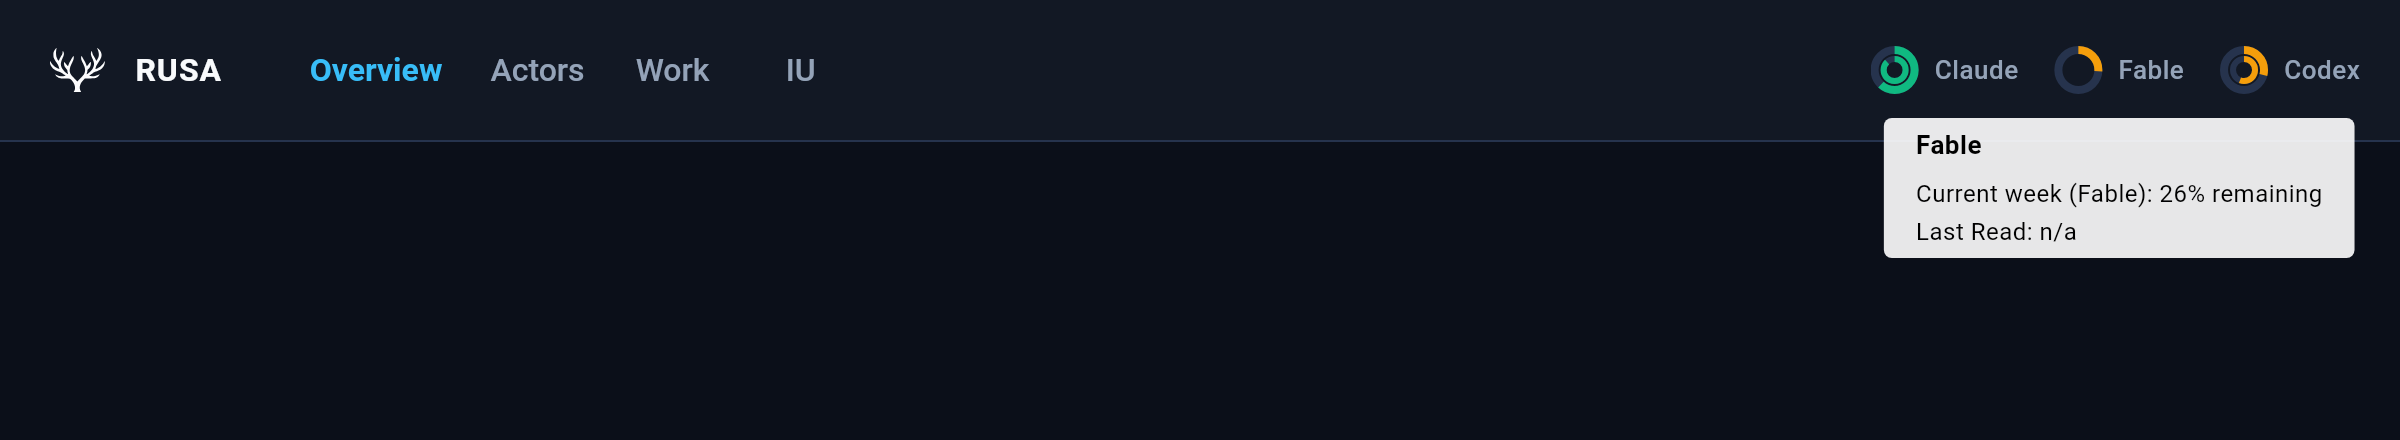
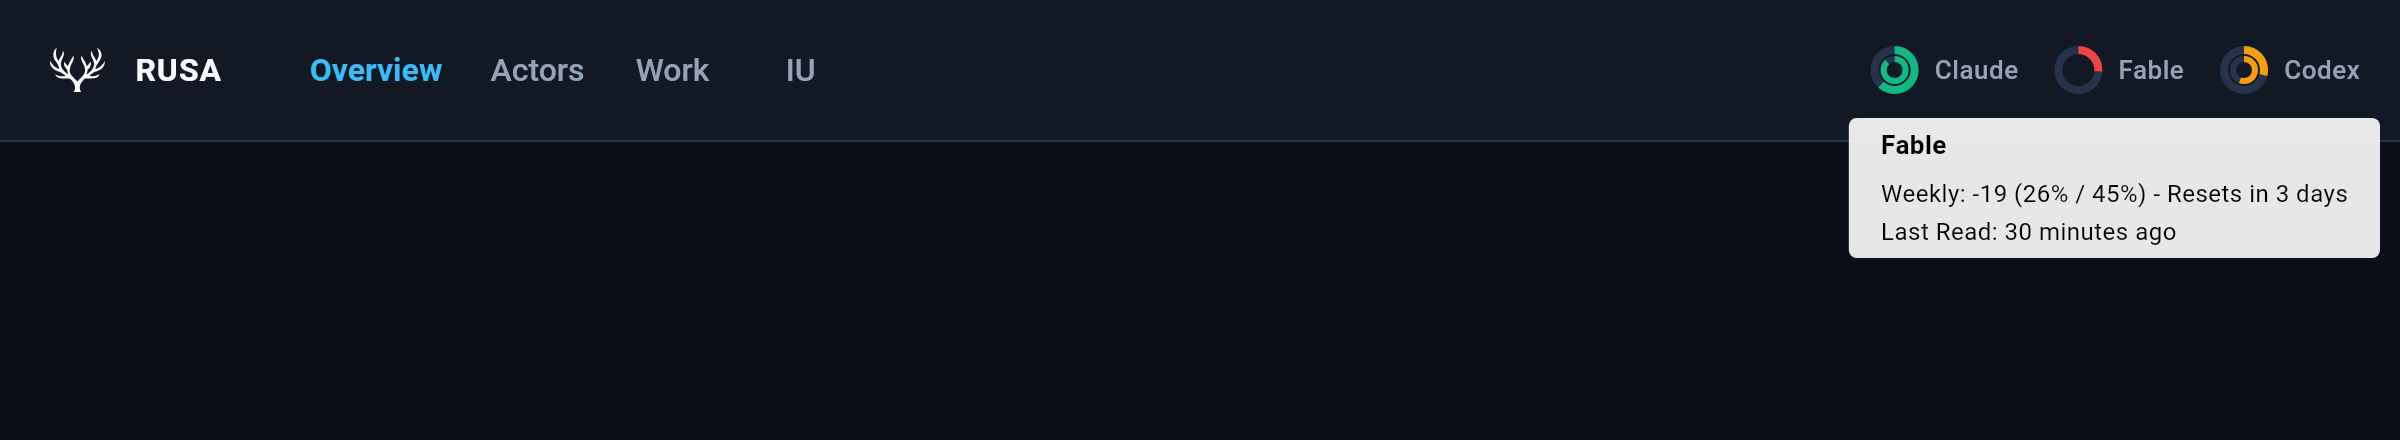
fix(dashboard): drop repeated quota tooltip rows; real Fable read time (#764)
Matt's review of #764 asked what the tooltip repeats and why Fable showed
"Last Read: n/a".

- The hottest-bucket line was its window row's headroom negated
  (Session: -1 is "1.0 points over pace"); dropped.
- The freshness lines restated Last Read; its staleness, fail-safe cap and
  manual mode now ride on the Last Read row, and a reset still awaiting its
  read stays on the window row.
- Window rows are named Weekly/Session: the heading already names the
  provider or model, so "Current week (Fable)" no longer repeats "Fable".
- The Fable capture's fixture left out the scrape and reset instants the
  server always sends for a model window; it now carries them, so the
  screenshot shows the real Last Read instead of n/a.

Changed region(s): [[0.75, 0.2659, 1.0, 0.5909], [0.8438, 0.1182, 0.875, 0.1477]]

diff --git a/packages/rusa/flutter_dashboard/lib/widgets/quota_tooltip.dart b/packages/rusa/flutter_dashboard/lib/widgets/quota_tooltip.dart
@@ -108,54 +108,28 @@ int? remainingMs(QuotaWindowDto window, DateTime now) {
   return reset.difference(now).inMilliseconds;
 }
 
-/// The control loop's own explanation of its pacing decision beyond the
-/// interval: freshness mode and state, expired-window recovery, the hottest
-/// bucket, and the configured-maximum cap. Carried over from the legacy text
-/// tooltip so a slow provider stays distinguishable from a busy mesh.
-List<String> quotaPacingDiagnostics(QuotaThrottleDto throttle) {
-  final lines = <String>[];
-  final f = throttle.freshness;
-  if (f != null) {
-    final modeLabel = f.mode == 'manual' ? 'manual' : 'scrape';
-    const hardStale = 'overdue (hard-stale, fail-safe cap applied)';
-    if (f.resetWaiting) {
-      lines.add(
-        'Freshness ($modeLabel): window reset; awaiting fresh reading (estimated)',
-      );
-      if (f.hardStale) lines.add('Freshness ($modeLabel): $hardStale');
-    } else if (f.hardStale) {
-      lines.add('Freshness ($modeLabel): $hardStale');
-    } else if (f.stale) {
-      lines.add('Freshness ($modeLabel): overdue (stale reading)');
-    } else {
-      lines.add('Freshness ($modeLabel): fresh');
-    }
-  }
-  if (throttle.expired) {
-    lines.add(
-      'Previous quota window expired; returning to the configured interval',
-    );
-  } else if (throttle.buckets.isNotEmpty) {
-    final hottest = throttle.buckets.reduce(
-      (a, b) => a.error >= b.error ? a : b,
-    );
-    lines.add(
-      'Hottest bucket ${hottest.key}: ${hottest.error.toStringAsFixed(1)} points over pace',
-    );
-  }
-  if (throttle.capped) {
-    lines.add('Limited to the configured maximum interval');
-  }
-  return lines;
-}
+/// The control loop's own explanation of its pacing decision that no other
+/// row carries: expired-window recovery and the configured-maximum cap.
+/// Carried over from the legacy text tooltip so a slow provider stays
+/// distinguishable from a busy mesh. The legacy freshness and hottest-bucket
+/// lines are not repeated (#764 review): Last Read carries the reading's age,
+/// staleness and mode, a window row carries a reset still awaiting its read,
+/// and a bucket's error is its window row's headroom negated.
+List<String> quotaPacingDiagnostics(QuotaThrottleDto throttle) => [
+  if (throttle.expired)
+    'Previous quota window expired; returning to the configured interval',
+  if (throttle.capped) 'Limited to the configured maximum interval',
+];
 
 /// A structured widget replacing the plain-text quota ring tooltip (#760).
 ///
 /// Displays:
 /// - Provider heading (e.g. "Claude")
-/// - One row per quota window: `$label: $margin ($quotaRemaining% / $timeRemaining%) - Resets in $relativeReset`
+/// - One row per quota window, named for its kind (`Weekly`, `Session`) since
+///   the heading already names the provider or model:
+///   `$label: $margin ($quotaRemaining% / $timeRemaining%) - Resets in $relativeReset`
 /// - Pacing row: `Pacing: every $interval` (omitted when [showThrottle] is false)
-/// - Last read row: `Last Read: $age`
+/// - Last read row: `Last Read: $age`, marked when stale or manually entered
 /// - Secondary pacing diagnostics ([quotaPacingDiagnostics]), when pacing is shown
 class QuotaTooltip extends StatelessWidget {
   const QuotaTooltip({
@@ -178,13 +152,13 @@ class QuotaTooltip extends StatelessWidget {
   List<String> _buildWindowRows(DateTime currentTime) {
     final rows = <String>[];
     for (final window in windows) {
-      final label = window.label.isNotEmpty
-          ? window.label
-          : (window.id == 'weekly'
-                ? 'Weekly'
-                : (window.id == 'session' || window.id == 'five_hour'
-                      ? 'Session'
-                      : window.id));
+      final label = switch (window.id) {
+        'weekly' => 'Weekly',
+        'session' => 'Session',
+        _ when window.label.isNotEmpty => window.label,
+        'five_hour' => 'Session',
+        _ => window.id,
+      };
 
       if (!window.isKnown || window.usedPercent == null) {
         rows.add('$label: n/a');
@@ -266,15 +240,16 @@ class QuotaTooltip extends StatelessWidget {
     final age = currentTime.difference(scraped);
     final ageText = formatLastReadAge(age);
     final freshness = throttle?.freshness;
+    final row = freshness?.mode == 'manual'
+        ? 'Last Read (manual): $ageText'
+        : 'Last Read: $ageText';
     if (freshness != null) {
       if (freshness.hardStale) {
-        return 'Last Read: $ageText [overdue: hard-stale]';
+        return '$row [overdue: hard-stale, fail-safe cap applied]';
       }
-      if (freshness.stale) {
-        return 'Last Read: $ageText [overdue: stale]';
-      }
+      if (freshness.stale) return '$row [overdue: stale]';
     }
-    return 'Last Read: $ageText';
+    return row;
   }
 
   /// Plain-text representation of this tooltip for screen readers and tests.

diff --git a/packages/rusa/flutter_dashboard/test/quota_tooltip_test.dart b/packages/rusa/flutter_dashboard/test/quota_tooltip_test.dart
@@ -131,7 +131,9 @@ void main() {
       );
 
       expect(find.text('Fable'), findsOneWidget);
-      expect(find.textContaining('Current week (Fable):'), findsOneWidget);
+      // The title already names the model; the row says which window.
+      expect(find.textContaining(RegExp(r'^Weekly: .*\(26% / ')), findsOneWidget);
+      expect(find.textContaining('(Fable)'), findsNothing);
       expect(find.textContaining('Resets in 5 days'), findsOneWidget);
       expect(find.textContaining('Last Read: 5 minutes ago'), findsOneWidget);
       // Pacing row must be omitted when showThrottle is false
@@ -332,7 +334,9 @@ void main() {
       now: now,
     );
 
-    test('names the hottest bucket driving pacing', () {
+    // Matt's #764 review: the hottest bucket's error is its window row's
+    // headroom negated (`Session: -1` is "1.0 points over pace").
+    test('leaves the hottest bucket to its window row', () {
       expect(
         quotaPacingDiagnostics(
           const QuotaThrottleDto(
@@ -355,11 +359,12 @@ void main() {
             ],
           ),
         ),
-        ['Hottest bucket claude:weekly: 20.0 points over pace'],
+        isEmpty,
       );
     });
 
-    test('explains scrape freshness mode when fresh', () {
+    // Freshness restates Last Read: its age, with the stale suffixes.
+    test('leaves a fresh reading to Last Read', () {
       expect(
         quotaPacingDiagnostics(
           const QuotaThrottleDto(
@@ -370,11 +375,11 @@ void main() {
             freshness: QuotaFreshnessDto(mode: 'scrape'),
           ),
         ),
-        ['Freshness (scrape): fresh'],
+        isEmpty,
       );
     });
 
-    test('explains a stale reading', () {
+    test('leaves a stale reading to Last Read', () {
       expect(
         quotaPacingDiagnostics(
           const QuotaThrottleDto(
@@ -385,12 +390,12 @@ void main() {
             freshness: QuotaFreshnessDto(mode: 'scrape', stale: true),
           ),
         ),
-        ['Freshness (scrape): overdue (stale reading)'],
+        isEmpty,
       );
     });
 
     test(
-      'explains reset-waiting, the hard-stale fail-safe cap and the configured maximum',
+      'explains the configured maximum, leaving reset-waiting to the window row',
       () {
         expect(
           quotaPacingDiagnostics(
@@ -408,11 +413,7 @@ void main() {
               ),
             ),
           ),
-          [
-            'Freshness (manual): window reset; awaiting fresh reading (estimated)',
-            'Freshness (manual): overdue (hard-stale, fail-safe cap applied)',
-            'Limited to the configured maximum interval',
-          ],
+          ['Limited to the configured maximum interval'],
         );
       },
     );
@@ -469,12 +470,7 @@ void main() {
       );
       await tester.pumpWidget(MaterialApp(home: Scaffold(body: tooltip)));
 
-      expect(
-        find.text(
-          'Freshness (manual): overdue (hard-stale, fail-safe cap applied)',
-        ),
-        findsOneWidget,
-      );
+      expect(find.textContaining('Freshness'), findsNothing);
       expect(
         find.text('Limited to the configured maximum interval'),
         findsOneWidget,
@@ -485,9 +481,8 @@ void main() {
         '\n'
         'Weekly: +58 (87% / 29%) - Resets in 2 days\n'
         'Pacing: every 10 hours\n'
-        'Last Read: 30 minutes ago [overdue: hard-stale]\n'
+        'Last Read (manual): 30 minutes ago [overdue: hard-stale, fail-safe cap applied]\n'
         '\n'
-        'Freshness (manual): overdue (hard-stale, fail-safe cap applied)\n'
         'Limited to the configured maximum interval',
       );
     });

diff --git a/packages/rusa/flutter_dashboard/test/screenshots_test.dart b/packages/rusa/flutter_dashboard/test/screenshots_test.dart
@@ -302,7 +302,8 @@ void main() {
             .ensureTooltipVisible();
         await tester.pump();
         await tester.pump(const Duration(milliseconds: 250));
-        expect(find.textContaining('Current week (Fable)'), findsOneWidget);
+        expect(find.textContaining('Weekly: '), findsOneWidget);
+        expect(find.textContaining('Last Read: 30 minutes ago'), findsOneWidget);
         await captureBoundary(key, '$_outDir/header_quota_fable_tooltip.png');
       });
     },
@@ -422,7 +423,8 @@ void main() {
         await tester.pump();
         await tester.pump(const Duration(milliseconds: 250));
         expect(find.textContaining('Weekly:'), findsOneWidget);
-        expect(find.text('Freshness (scrape): fresh'), findsOneWidget);
+        expect(find.textContaining('Freshness'), findsNothing);
+        expect(find.textContaining('Hottest bucket'), findsNothing);
         await captureBoundary(key, '$_outDir/header_quota_claude_tooltip.png');
       });
     },
@@ -597,9 +599,11 @@ QuotaSnapshotDto _seedQuota() => const QuotaSnapshotDto(
 );
 
 /// Claude with a Fable weekly allocation beside its provider-wide week (#752),
-/// plus Codex. Reset and scrape instants are null for a reproducible shot.
+/// plus Codex. The Fable window carries the provider's reset and scrape
+/// instants, as the server sends them, relative to the capture time.
 QuotaSnapshotDto _seedFableQuota() {
   final base = _seedQuota();
+  final now = DateTime.now().toUtc();
   final claude = base.providers.first;
   return QuotaSnapshotDto(
     generatedAt: base.generatedAt,
@@ -611,7 +615,8 @@ QuotaSnapshotDto _seedFableQuota() {
         tier: null,
         message: null,
         windows: claude.windows,
-        modelWindows: const [
+        scrapedAt: now.subtract(const Duration(minutes: 30)).toIso8601String(),
+        modelWindows: [
           QuotaWindowDto(
             id: 'weekly',
             label: 'Current week (Fable)',
@@ -619,7 +624,13 @@ QuotaSnapshotDto _seedFableQuota() {
             status: 'available',
             headline: true,
             windowMs: 604800000,
-            modelIds: ['claude-fable-5-1'],
+            resetAtIso: now
+                .add(const Duration(days: 3, hours: 4))
+                .toIso8601String(),
+            scrapedAt: now
+                .subtract(const Duration(minutes: 30))
+                .toIso8601String(),
+            modelIds: const ['claude-fable-5-1'],
           ),
         ],
       ),

diff --git a/packages/rusa/flutter_dashboard/test/fable_quota_ring_test.dart b/packages/rusa/flutter_dashboard/test/fable_quota_ring_test.dart
@@ -171,13 +171,16 @@ void main() {
 
         final claudeTip = _tooltipOf(tester, 'Claude');
         final fableTip = _tooltipOf(tester, 'Fable');
-        expect(claudeTip, contains('Current week (all models)'));
+        expect(claudeTip, contains('Weekly: '));
+        expect(claudeTip, contains('Session: '));
         expect(claudeTip, contains('60%'));
         expect(claudeTip, isNot(contains('Fable')));
-        expect(fableTip, contains('Current week (Fable)'));
+        expect(fableTip, startsWith('Fable\n'));
+        expect(fableTip, contains('Weekly: '));
+        expect(fableTip, isNot(contains('(Fable)')));
         expect(fableTip, contains('25%'));
         expect(fableTip, contains('Resets in'));
-        expect(fableTip, contains('Last Read:'));
+        expect(fableTip, contains('Last Read: 5 minutes ago'));
         expect(fableTip, isNot(contains('all models')));
 
         // The label is styled like every other ring label (#758); semantics
